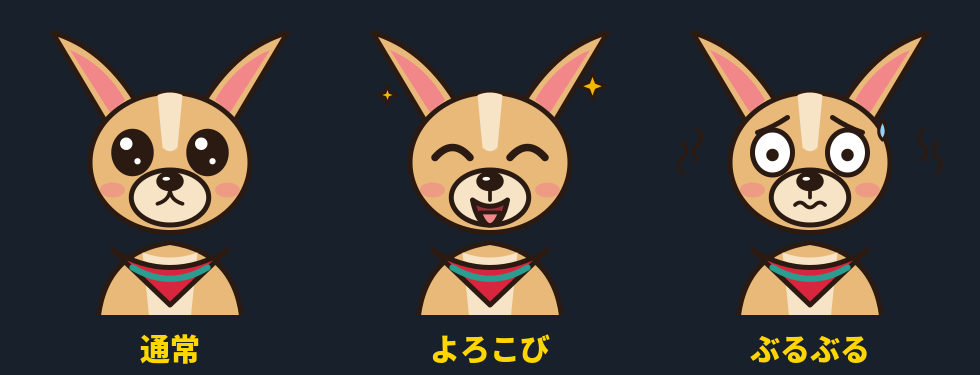
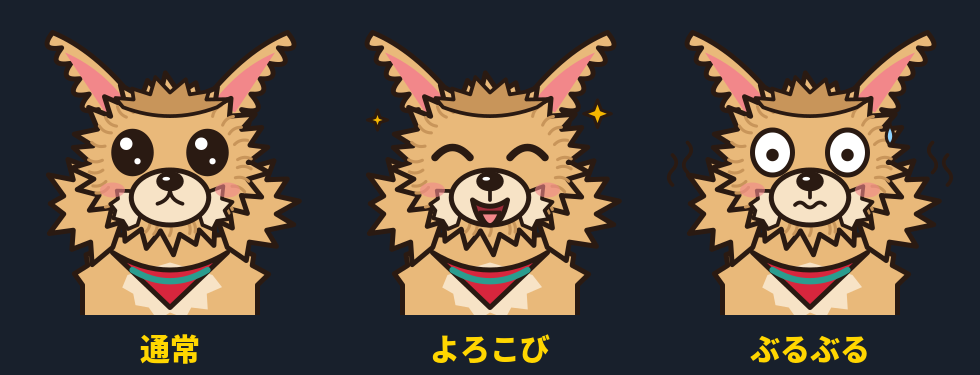
ペロをけむくじゃらに(たてがみ・ほっぺの飾り毛・耳の飾り毛・前髪・ヒゲ)。毛はmake_pero.pyで生成
Claude-Session: https://claude.ai/code/session_012ysKMzomefDzr7a8J75RoB

Changed region(s): [[0.6735, 0.088, 0.9796, 0.8507], [0.3673, 0.088, 0.6429, 0.8507], [0.0306, 0.088, 0.3061, 0.8507]]

diff --git a/youtube-spanish/characters/pero/make_pero.py b/youtube-spanish/characters/pero/make_pero.py
@@ -1,0 +1,152 @@
+"""ペロ（けむくじゃらのチワワ）の SVG を作る。毛の房はプログラムで少しずつ不ぞろいにして、自然に見せる。
+
+使い方: python3 characters/pero/make_pero.py   → characters/pero/expressions/*.svg を作り直す
+"""
+import math
+import random
+from pathlib import Path
+
+OUT = Path(__file__).resolve().parent / "expressions"
+INK, FUR, LIGHT, DARK, PINK = "#2a1a12", "#e9b97a", "#f7e3c6", "#c8955a", "#f2878a"
+
+
+def tufts(cx, cy, rx, ry, a0, a1, n, depth, seed, inward=0.0):
+    """楕円のふちに沿って、とがった毛の房をつなげた輪郭。a0〜a1 は角度（度）。"""
+    rnd = random.Random(seed)
+    pts = []
+    for i in range(n + 1):
+        t = math.radians(a0 + (a1 - a0) * i / n)
+        r = 1 - inward * rnd.random()
+        pts.append((cx + rx * r * math.cos(t), cy + ry * r * math.sin(t)))
+    d = f"M{pts[0][0]:.1f} {pts[0][1]:.1f}"
+    for (x0, y0), (x1, y1) in zip(pts, pts[1:]):
+        mx, my = (x0 + x1) / 2, (y0 + y1) / 2
+        ang = math.atan2(my - cy, mx - cx) + rnd.uniform(-0.25, 0.25)
+        k = depth * rnd.uniform(0.7, 1.3)
+        tx, ty = mx + k * math.cos(ang), my + k * math.sin(ang)
+        d += f" Q{(x0 + tx) / 2:.1f} {(y0 + ty) / 2:.1f} {tx:.1f} {ty:.1f} Q{(x1 + tx) / 2:.1f} {(y1 + ty) / 2:.1f} {x1:.1f} {y1:.1f}"
+    return d
+
+
+def closed(d, cx, cy):
+    return d + f" L{cx} {cy} Z"
+
+
+def strands(cx, cy, rx, ry, a0, a1, n, length, seed):
+    """毛並みの線（短い曲線）を、ふちの少し内側に並べる。"""
+    rnd = random.Random(seed)
+    out = []
+    for i in range(n):
+        t = math.radians(a0 + (a1 - a0) * (i + 0.5) / n + rnd.uniform(-4, 4))
+        x, y = cx + rx * 0.82 * math.cos(t), cy + ry * 0.82 * math.sin(t)
+        ex, ey = x + length * math.cos(t), y + length * math.sin(t)
+        qx, qy = (x + ex) / 2 + 3 * math.sin(t), (y + ey) / 2 - 3 * math.cos(t)
+        out.append(f"M{x:.1f} {y:.1f} Q{qx:.1f} {qy:.1f} {ex:.1f} {ey:.1f}")
+    return " ".join(out)
+
+
+def ear(side, seed):
+    """長い飾り毛のついた「蝶の羽」のような耳。side=-1 左 / 1 右。"""
+    s = side
+    base = [(150 + s * 50, 112), (150 + s * 94, 38), (150 + s * 28, 92)]
+    rnd = random.Random(seed)
+    # 外側のふちに飾り毛（房）を並べる
+    (x0, y0), (x1, y1) = base[0], base[1]
+    d = f"M{x0} {y0}"
+    n = 6
+    for i in range(n):
+        ax, ay = x0 + (x1 - x0) * i / n, y0 + (y1 - y0) * i / n
+        bx, by = x0 + (x1 - x0) * (i + 1) / n, y0 + (y1 - y0) * (i + 1) / n
+        nx, ny = -(by - ay), (bx - ax)
+        L = math.hypot(nx, ny)
+        k = rnd.uniform(14, 22)
+        tx, ty = (ax + bx) / 2 - s * k * nx / L * -1, (ay + by) / 2 - s * k * ny / L * -1
+        if s < 0:
+            tx, ty = (ax + bx) / 2 - k * nx / L, (ay + by) / 2 - k * ny / L
+        else:
+            tx, ty = (ax + bx) / 2 + k * nx / L, (ay + by) / 2 + k * ny / L
+        d += f" Q{tx:.1f} {ty:.1f} {bx:.1f} {by:.1f}"
+    d += f" Q{150 + s * 60} {52} {base[2][0]} {base[2][1]} Z"
+    inner = f"M{150 + s * 52} {102} L{150 + s * 84} {54} Q{150 + s * 56} {66} {150 + s * 36} {92} Z"
+    return d, inner
+
+
+def base_svg():
+    eL, eLi = ear(-1, 1)
+    eR, eRi = ear(1, 2)
+    head = tufts(150, 142, 66, 58, 0, 360, 26, 14, 3, inward=0.06) + " Z"  # 一周しているので、そのまま閉じる
+    # ほっぺの大きな飾り毛（左右に張り出す）
+    ruff_l = tufts(108, 176, 44, 34, 95, 265, 7, 15, 11) + " L118 170 Z"
+    ruff_r = tufts(192, 176, 44, 34, -85, 85, 7, 15, 12) + " L182 170 Z"
+    chest = tufts(150, 240, 70, 46, 180, 360, 9, 10, 4)
+    bib = closed(tufts(150, 232, 34, 30, 0, 180, 6, 8, 5), 150, 222)
+    bangs = tufts(150, 104, 40, 18, 200, 340, 6, 12, 6) + " Q150 112 " + f"{150 - 40 * math.cos(math.radians(20)):.1f} {104 + 18 * math.sin(math.radians(200)):.1f} Z"
+    beard_l = closed(tufts(124, 178, 18, 14, 90, 250, 4, 7, 7), 130, 172)
+    beard_r = closed(tufts(176, 178, 18, 14, -70, 90, 4, 7, 8), 170, 172)
+    fur = strands(150, 142, 66, 58, 0, 360, 34, 11, 9)
+    return f'''<g id="body" stroke="{INK}" stroke-width="4" stroke-linejoin="round" stroke-linecap="round">
+    <path d="{chest} L220 272 L80 272 Z" fill="{FUR}"/>
+    <path d="{bib}" fill="{LIGHT}" stroke="none"/>
+    <path d="M104 214 Q150 242 196 214 L150 258 Z" fill="#d7263d"/>
+    <path d="M120 228 Q150 246 180 228" fill="none" stroke="#2a9d8f" stroke-width="5"/>
+    <path d="{eL}" fill="{FUR}"/><path d="{eLi}" fill="{PINK}" stroke="none"/>
+    <path d="{eR}" fill="{FUR}"/><path d="{eRi}" fill="{PINK}" stroke="none"/>
+    <path d="{ruff_l}" fill="{FUR}"/>
+    <path d="{ruff_r}" fill="{FUR}"/>
+    <path d="{head}" fill="{FUR}"/>
+    <path d="{fur}" fill="none" stroke="{DARK}" stroke-width="2.5"/>
+    <path d="{bangs}" fill="{DARK}" stroke-width="3"/>
+    <path d="{beard_l}" fill="{LIGHT}" stroke-width="3"/>
+    <path d="{beard_r}" fill="{LIGHT}" stroke-width="3"/>
+    <ellipse cx="150" cy="170" rx="31" ry="22" fill="{LIGHT}"/>
+    <ellipse cx="150" cy="157" rx="9" ry="6" fill="{INK}"/>
+    <ellipse cx="147" cy="155" rx="3" ry="1.5" fill="#fff" stroke="none"/>
+  </g>'''
+
+
+FACES = {
+    "01_normal": '''
+  <ellipse cx="120" cy="134" rx="15" ry="17" fill="#2a1a12"/>
+  <ellipse cx="180" cy="134" rx="15" ry="17" fill="#2a1a12"/>
+  <circle cx="115" cy="127" r="5" fill="#fff" stroke="none"/><circle cx="175" cy="127" r="5" fill="#fff" stroke="none"/>
+  <circle cx="124" cy="141" r="2.5" fill="#fff" stroke="none"/><circle cx="184" cy="141" r="2.5" fill="#fff" stroke="none"/>
+  <path d="M150 163 Q150 172 140 175 M150 163 Q150 172 160 175" fill="none" stroke-width="3"/>
+''',
+    "02_happy": '''
+  <path d="M106 138 Q120 122 134 138 M166 138 Q180 122 194 138" fill="none" stroke-width="6"/>
+  <path d="M136 172 Q150 182 164 172 Q160 192 150 192 Q140 192 136 172 Z" fill="#9e2b3a"/>
+  <path d="M142 182 Q150 202 158 182 Z" fill="#f2878a" stroke-width="3"/>
+  <path d="M150 163 L150 172" stroke-width="3"/>
+  <path d="M236 92 l3 8 l8 3 l-8 3 l-3 8 l-3 -8 l-8 -3 l8 -3 Z M60 100 l2 6 l6 2 l-6 2 l-2 6 l-2 -6 l-6 -2 l6 -2 Z" fill="#f5b700" stroke-width="2.5"/>
+''',
+    "03_buruburu": '''
+  <ellipse cx="120" cy="134" rx="16" ry="18" fill="#fff"/>
+  <ellipse cx="180" cy="134" rx="16" ry="18" fill="#fff"/>
+  <circle cx="120" cy="136" r="5" fill="#2a1a12" stroke="none"/><circle cx="180" cy="136" r="5" fill="#2a1a12" stroke="none"/>
+  <path d="M138 176 q4 -4 8 0 q4 4 8 0 q4 -4 8 0" fill="none" stroke-width="3"/>
+  <path d="M150 163 L150 170" stroke-width="3"/>
+  <path d="M52 150 q-6 -6 0 -12 q6 -6 0 -12 M40 160 q-6 -6 0 -12 q6 -6 0 -12 M248 150 q6 -6 0 -12 q-6 -6 0 -12 M260 160 q6 -6 0 -12 q-6 -6 0 -12" fill="none" stroke-width="3"/>
+  <path d="M214 112 Q220 122 214 128 Q208 122 214 112 Z" fill="#8fd3ff" stroke-width="2.5"/>
+''',
+}
+
+
+def main():
+    OUT.mkdir(exist_ok=True)
+    body = base_svg()
+    for name, face in FACES.items():
+        svg = f'''<svg xmlns="http://www.w3.org/2000/svg" xmlns:xlink="http://www.w3.org/1999/xlink" viewBox="30 28 240 236" width="960" height="944">
+<defs>
+  {body}
+  <g id="cheeks" fill="{PINK}" opacity=".6" stroke="none"><ellipse cx="104" cy="164" rx="10" ry="6"/><ellipse cx="196" cy="164" rx="10" ry="6"/></g>
+</defs>
+<use xlink:href="#body"/><use xlink:href="#cheeks"/>
+<g stroke="{INK}" stroke-width="4" stroke-linejoin="round" stroke-linecap="round">{face}</g>
+</svg>
+'''
+        (OUT / f"{name}.svg").write_text(svg, encoding="utf-8")
+    print("できました:", ", ".join(FACES))
+
+
+if __name__ == "__main__":
+    main()

diff --git a/youtube-spanish/characters/pero/CHARACTER.md b/youtube-spanish/characters/pero/CHARACTER.md
@@ -6,7 +6,7 @@
 |---|---|
 | 名前 | ペロ（スペイン語の *perro*＝犬。名前そのものが単語の勉強になる） |
 | 犬種 | チワワ（メキシコ原産。オラポン君のソンブレロの雰囲気に合わせた） |
-| 見た目 | 大きな耳、うるうるの大きな目、オラポン君のポンチョと同じ赤と青緑のバンダナ |
+| 見た目 | けむくじゃらのロングコート・チワワ。頭のまわりのたてがみのような毛、張り出したほっぺの飾り毛、飾り毛のついた大きな耳、前髪、口のまわりのヒゲ、ふわふわの胸。うるうるの大きな目、オラポン君のポンチョと同じ赤と青緑のバンダナ |
 | 性格（案） | 臆病でよく震えるが、オラポン君が正解すると誰よりも喜ぶ。奥さんのドローレスが怒るとぶるぶる震える |
 | 鳴き声（案） | 「ワン」ではなくスペイン語の犬の鳴き声「 guau（グアウ）」。豆知識ネタになる |
 
@@ -22,3 +22,4 @@
 - 色：毛 #E9B97A / 明るい毛 #F7E3C6 / 耳の中 #F2878A / バンダナ #D7263D・#2A9D8F
 - 口パク用の素材はまだない（しゃべらせる場合は作る）
 - まだ清書前のラフ
+- 毛の房は `make_pero.py` で作っている（毛の長さや量を変えるときは、このプログラムの数値を変えて作り直す）
